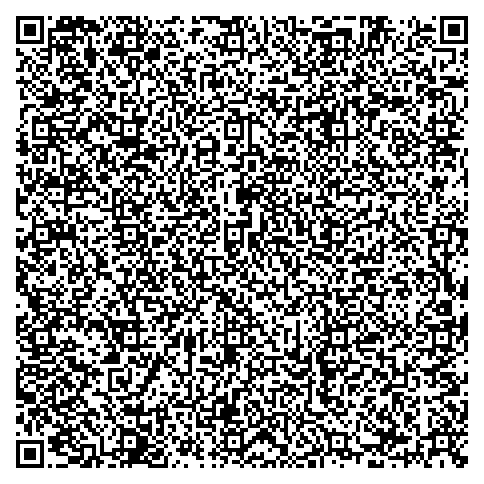
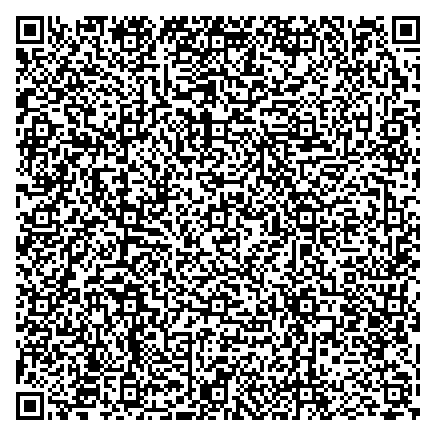
even smaller

diff --git a/index.html b/index.html
@@ -1,41 +1,1 @@
-<html>
-  <body
-    style="
-      overflow: hidden;
-      text-align: center;
-      height: 100vh;
-      color: fff;
-    "
-  >
-    <h1 id='g' style="transform: translateY(44vh);">Click to start</h1>
-  </body>
-  <script>
-      s = 0;
-      c = ["2b87d1", "ce2636", "39a751"];
-      b = document.body;
-      g = document.getElementById("g");
-    b.onclick = () => {
-      switch (((e = Date.now()), s)) {
-        case 0:
-          z(1), m();
-          break;
-        case 1:
-          z(0), (g.innerHTML = "Too early<br/>Click to restart"), clearTimeout(h);
-          break;
-        case 2:
-          (g.innerHTML = `${e - f}ms<br/>Click to restart`), z(0);
-      }
-    };
-    const z = e => {
-        (s = e), (b.style.backgroundColor = c[e]);
-      },
-      m = () => {
-        g.innerHTML = "Wait for green";
-        e = Math.floor(4501 * Math.random()) + 3e3;
-        h = setTimeout(() => {
-          (g.innerHTML = "Click now"), z(2), (f = Date.now());
-        }, e);
-      };
-      z(0);
-  </script>
-</html>
+<html><body style="overflow:hidden;text-align:center;height:100vh;color:fff"><h1 id="g"style="transform:translateY(44vh)">Click to start</h1></body><script>s=0;d=document;c=["2b87d1","ce2636","39a751"];b=d.body;g=d.getElementById("g");b.onclick=()=>s == 0 ? (z(1),m()) :s == 1 ? (z(0),(g.innerHTML="Too early<br/>Click to restart"),clearTimeout(h)) :((g.innerHTML=`${Date.now() - f}ms<br/>Click to restart`),z(0));const z=e=>{(s=e),(b.style.backgroundColor=c[e]);},m=()=>{g.innerHTML="Wait for green";t=Math.floor(4501*Math.random())+3e3;h=setTimeout(()=>{(g.innerHTML="Click now"),z(2),(f=Date.now());},t);};z(0);</script></html>

diff --git a/minifier.js b/minifier.js
@@ -2,7 +2,7 @@ const fs = require("fs");
 const path = require("path");
 const QRCode = require("qrcode");
 
-const filePath = path.join(__dirname, "index.html");
+const filePath = path.join(__dirname, "pre_index.html");
 
 fs.readFile(filePath, "utf8", (err, data) => {
   if (err) {
@@ -27,7 +27,8 @@ fs.readFile(filePath, "utf8", (err, data) => {
     .replaceAll(": ", ":")
     .replaceAll(" * ", "*")
     .replaceAll(" + ", "+");
-  const minifiedFilePath = path.join(__dirname, "index_minified.html");
+
+  const minifiedFilePath = path.join(__dirname, "index.html");
   fs.writeFile(minifiedFilePath, minified, "utf8", (err) => {
     if (err) {
       console.error("Error writing file:", err);
@@ -37,7 +38,7 @@ fs.readFile(filePath, "utf8", (err, data) => {
 
   const dataUri = "data:text/html;base64," + Buffer.from(minified).toString("base64");
 
-  QRCode.toFile(path.join(__dirname, "qrcode.png"), dataUri, (err) => {
+  QRCode.toFile(path.join(__dirname, "qrcode.png"), dataUri, { errorCorrectionLevel: "L" }, (err) => {
     if (err) {
       console.error("Error generating QR code:", err);
       return;

diff --git a/pre_index.html b/pre_index.html
@@ -1,0 +1,29 @@
+<html>
+  <body style="overflow: hidden; text-align: center; height: 100vh; color: fff">
+    <h1 id="g" style="transform: translateY(44vh)">Click to start</h1>
+  </body>
+  <script>
+    s = 0;
+    d = document;
+    c = ["2b87d1", "ce2636", "39a751"];
+    b = d.body;
+    g = d.getElementById("g");
+    b.onclick = () =>
+      s == 0
+        ? (z(1), m())
+        : s == 1
+        ? (z(0), (g.innerHTML = "Too early<br/>Click to restart"), clearTimeout(h))
+        : ((g.innerHTML = `${Date.now() - f}ms<br/>Click to restart`), z(0));
+    const z = e => {
+        (s = e), (b.style.backgroundColor = c[e]);
+      },
+      m = () => {
+        g.innerHTML = "Wait for green";
+        t = Math.floor(4501 * Math.random()) + 3e3;
+        h = setTimeout(() => {
+          (g.innerHTML = "Click now"), z(2), (f = Date.now());
+        }, t);
+      };
+    z(0);
+  </script>
+</html>
